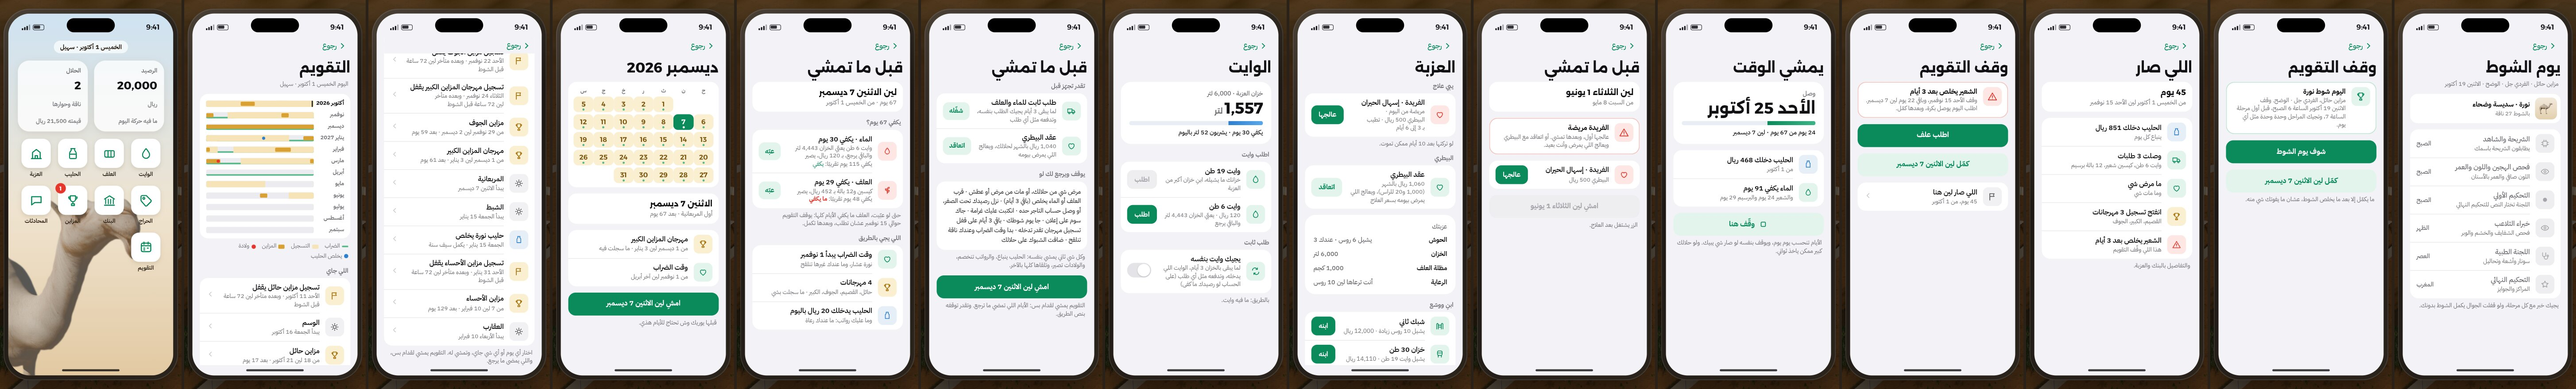
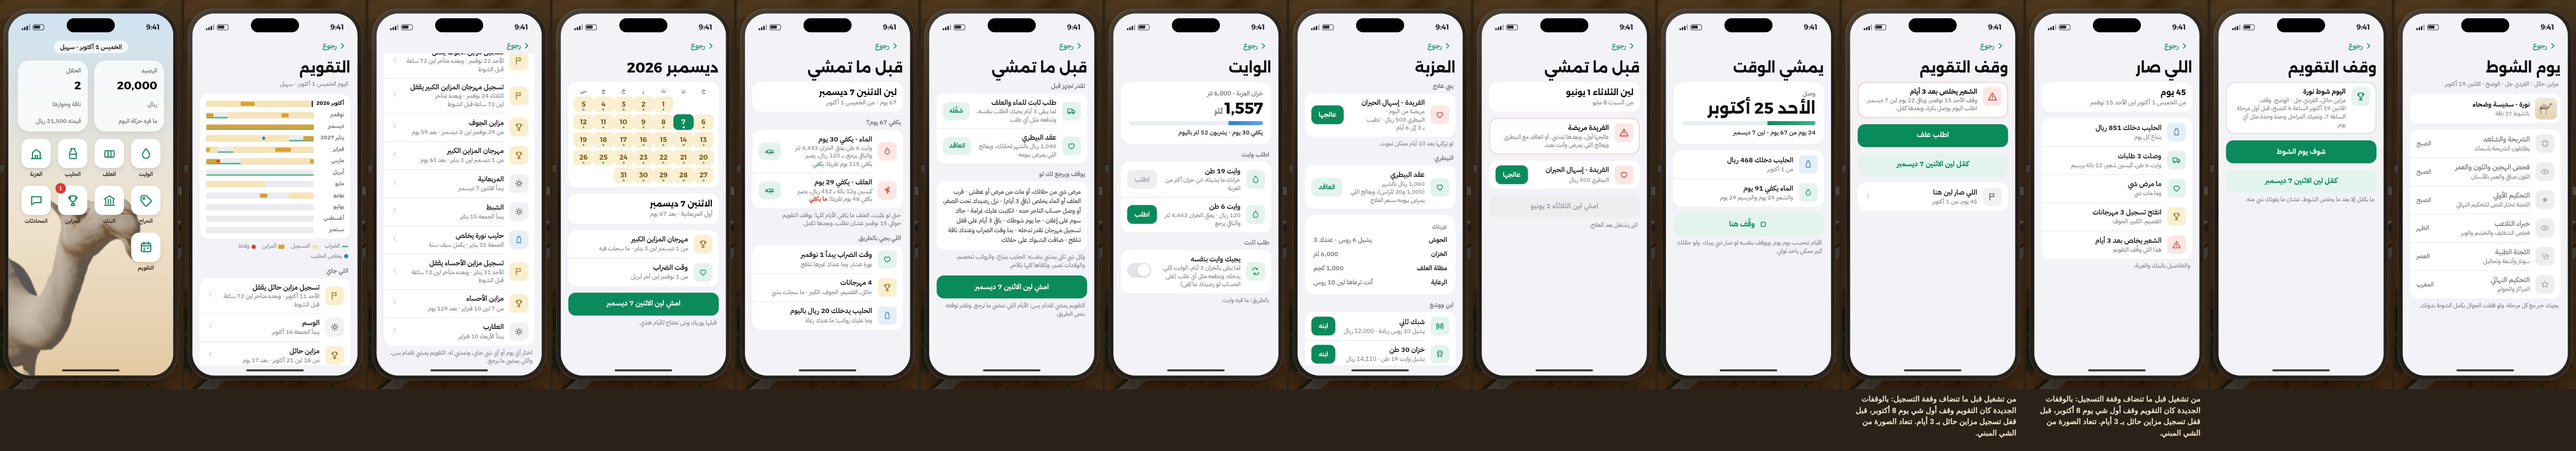
Part A's last touches: the early stop and summary captioned, two reasons corrected, a caller's daily work
- N9: views 11 and 12 come from a run made before the registration stop
  existed; under the revised stops the first stop would come on 8 October,
  three days before مزاين حائل's registration closes. Said in a caption under
  the two frames (added to the strip from the drawn frames) and in the README
  row; they are to be re-made from the built thing.
- N6: a thirst death at dawn reads a count that already holds today.
- N7: the make-good's condition is exact up to Care's rounding to 0.01 and its
  clamp to 5..98.
- N1: today's milk stands after a make-good (the dawn's litres kept).
- Section 5: a caller's daily work is a daily system keyed by state, never a
  loop callback (N3).

Claude-Session: https://claude.ai/code/session_01MLonhqocXpQK4avaG2Yu99

diff --git a/design/ui/README.md b/design/ui/README.md
@@ -14,7 +14,7 @@ These mockups were reviewed by agents and approved by the owner. Only the inform
 | `phone_haraj_vet.jpg` (drawn by `phone_haraj_vet.cjs`) | **Awaiting the owner's approval** (a design, not built). الحراج's rules its screens do not show yet, from a game on seed 4242 (1 October 2026) played forward with three things forced (the farm's stores filled so the herd lives through the wait, money granted for the purchase, the daily look's finding called directly): a camel's page with the vet's look before buying (CheckListing, SAR 500; after it «البيطري فحصها مرة · ما لقى شي», each day a fresh look, never a chance in numbers); the look that found a treatment (only the buyer knows; buy knowing, leave her, or wait); selling one's own treated camel bought unknowing and told: listed declared at his price, or to the broker declared now, at her natural price (under the cards' estimate, which shows a share of the treatment's lift), no examination, no fine (decision 15); and for one who treated her himself the engine's refusal (ownTreatment) and why. Drawn from a game on seed 4242 played forward till the market's own treated listings were on offer and the vet found one; the finding outside the ring of a camel bought unchecked was called directly (its chance is years of play), with money granted for that purchase and the stores filled for the 66 days' wait; every figure shown is the engine's own. Questions waiting for the owner: whether a buyer who learned of the treatment before buying (his vet found it) may sell her declared (the proxy: no, decision 15 is for one who did not know); the declared sale both ways (a listing and to the broker) approved provisionally by the proxy, a declared listing carrying no premium from the treatment (tested). |
 | `phone_falcon.jpg` (drawn by `phone_falcon.cjs`) | **Awaiting the owner's approval (13 Nov 2026), not built.** الصقور in two apps, «نادي الصقور» and «تصريح الصيد» (the owner's generic names), in fifteen views: the home screen with ten apps (the six, المزاين and المحادثات being built, and the two new ones); the auction of wild-caught falcons (1 Oct – 30 Nov), a falcon's page for a buyer (species, age, origin, تام or مثلوث, weight; how it hunts and races hidden) and the bid; the player's falcon (passport, outings, results); الدعو as one short care each time the game opens, its change in words; مهرجان الصقور (الملواح's classes, المزاين's classes and prizes; scrolled, the rules); the race day and its result (times to three decimals); المزاين's result (places and prizes, no scores; the sample falcon out of the prizes) and, as an example only, what a third place's card looks like; the permit before it is taken, held (top and scrolled: the season and halves, by day only, the banned places, the never-hunted, the fines) and a violation. No hunting engine yet: every figure is real by its source number or a game choice, listed in the script's header. The falcon pictures are stand-ins until task T11's birds exist. Notes in `docs/proposals/hunting_season_design.md`. |
 | `phone_rush.jpg` (drawn by `phone_rush.cjs`) | **Awaiting the owner's approval (14 Nov 2026), not built; revised after review, the proxy's answers (batches 4, 4b) provisional.** Rushing (the owner: «اي شي اسويه او ابنيه اقدر اسرعه يبني بنفس اللحظة بتكلفه اعلى») in the phone's own screens, ten views: العزبة's pen being built, its approved line kept and «استعجل» after it, and the second tap («أكّد»); at ordering, «أو ابنه الحين بـ 18,000 ريال» (where that line sits is his eye); الوايت and العلف on a day the herd went short (the engine's save, 1 November: the rushed delivery makes good today's loss) and on an ordinary day (no rush: «الطلبة العادية توصل قبل شرب حلالك بكرة»); الحراج's camel on the truck, «توصل الحين», priced by the part of the game's day left (the ownership day unchanged); the rush the money does not cover (cash only); البنك's «الاستعجال». Every price a game choice. Notes in `docs/proposals/rush_and_calendar.md`. |
-| `phone_calendar.jpg` (drawn by `phone_calendar.cjs`) | **Awaiting the owner's approval (14 Nov 2026), not built; revised after review, the proxy's answers provisional.** «التقويم», an optional ninth app (the owner: «خليني اقدر انتقل بين المواسم بنفسي يعني تقويم وهكذا موجود اختياري»), fourteen views: the home screen as built with التقويم; the year's twelve strips and what is coming; a season picked; the card before the jump (the stores against the days, filled by orders; what falls due; the standing order and the vet's contract to set; every stop; two taps; forward only); الوايت's standing order; العزبة's first vet screen («يبي علاج», the engine's quote) and the card that waits for a sick calf; the jump under way; a store's stop and the summary (played on the fast clock); the stop on his round's day at 6:00 and المزاين's own day screen with no stage told. Notes, measurements, the one mechanism for being away, in `docs/proposals/rush_and_calendar.md`. |
+| `phone_calendar.jpg` (drawn by `phone_calendar.cjs`) | **Awaiting the owner's approval (14 Nov 2026), not built; revised after review, the proxy's answers provisional.** «التقويم», an optional ninth app (the owner: «خليني اقدر انتقل بين المواسم بنفسي يعني تقويم وهكذا موجود اختياري»), fourteen views: the home screen as built with التقويم; the year's twelve strips and what is coming; a season picked; the card before the jump (the stores against the days, filled by orders; what falls due; the standing order and the vet's contract to set; every stop; two taps; forward only); الوايت's standing order; العزبة's first vet screen («يبي علاج», the engine's quote) and the card that waits for a sick calf; the jump under way; a store's stop and the summary (played on the fast clock, **in a run made before the registration stop existed: under the revised stops that jump would first stop on 8 October, three days before مزاين حائل's registration closes; these two views are to be re-made from the built thing; captioned so under the two frames in the picture**); the stop on his round's day at 6:00 and المزاين's own day screen with no stage told. Notes, measurements, the one mechanism for being away, in `docs/proposals/rush_and_calendar.md`. |
 | `../hunt/season_calendar.jpg`, `../hunt/season_money.jpg` (drawn by `../hunt/season.cjs`) | **Awaiting the owner's approval.** The hunting season against the camel year (Aug 2026 – Jul 2027; the falcon festival's two disagreeing date ranges and the camel festival each meets; a new game's first season from 1 October), and one season's costs against what it can bring (pastime or contests). |
 | `../hunt/outing_1..9_*.jpg`, `../hunt/outing_board.jpg` (drawn by `../hunt/outing.cjs`) | **Awaiting the owner's approval.** The outing as storyboard frames on real screenshots of the game page at 956 x 440: the hunting ground and the estate as far pins, the ground's card, driving out, parked (the falcon's button in the car's row), on foot with the hooded falcon on the glove and the cast-off button, the flight, the result card, the banned place's warning, the fine after in the small phone. What is drawn is listed under each frame in `outing_board.jpg`; frames 5 and 8 show task T11's render of the hooded saker on a drawn glove, the other birds are flat stand-ins; each frame has its strip under it; each frame's draws and triangles in `../hunt/outing_draws.txt`. |
 

diff --git a/docs/proposals/rush_and_calendar.md b/docs/proposals/rush_and_calendar.md
@@ -107,10 +107,15 @@ So a rush of water or feed is offered **only on a day the herd went short**, and
     `fedShare = (barley eaten + alfalfa eaten) / need`; `short` loses a feed that now covers the day.
   - **Today's condition:** `CareSystem` ran at dawn with the short day. The difference is applied once to each
     camel: `condition += conditionPull × ((plan target − 35) × (fedShare′ − fedShare) + (thirstPenalty if the day
-    stopped counting dry))`, clamped as Care clamps. The update is linear in its target, so this is what Care would
-    have made of the corrected day. How much of the day's loss it undoes (all of today's, as here) is a game choice.
-  - A camel that died of thirst at dawn stays dead. A thirst death comes from yesterday's count (`systems.dart:
-    412-418`), and the rush resets the count for tomorrow: that is its real worth.
+    stopped counting dry))`, clamped as Care clamps. Care's update is linear in its target, so this is what Care
+    would have made of the corrected day, up to Care's rounding to 0.01 (`q2`) and its clamp to 5..98: deterministic
+    either way. How much of the day's loss it undoes (all of today's, as here) is a game choice.
+  - A camel that died of thirst at dawn stays dead. At dawn `_consume` adds today's dry day to the count before
+    `HealthSystem` reads it (`systems.dart:412-418`), so that death came from a count that already held today; the
+    rush resets the count for tomorrow: that is its real worth.
+  - **Today's milk stands** (the second review, N1): `MilkSystem` billed today's milk at dawn from the short day's
+    `fedShare` and `dryDays`. The day's record keeps the dawn's litres, and الحليب reads them from there, so the view
+    never shows a fed day's litres beside the short day's money in the bank.
 - **When the herd is not short today**, nothing is offered. The row says honestly «الطلبة العادية توصل قبل شرب حلالك
   بكرة» (water) and «… قبل علفة حلالك بكرة» (feed).
 - **A played day equals a jumped day.** The rule reads only the day's record, never the minute, so a rush at 08:00 and
@@ -247,6 +252,11 @@ outing may last days), all use one mechanism. Hunting is not built; it will call
   - **extra lines a caller adds to the card and the summary**: the card before leaving takes the caller's lines
     (gear, camp supplies, distance) under its own; the summary takes its lines (days out, birds seen and caught,
     released) above its own. The calendar's card and summary views are the same views, with no extra lines.
+  - **A caller's daily work is a daily system, never a loop callback** (the second review, N3). A camp's daily work
+    (its supplies used, its trapping) is a step of the engine's own daily pipeline, keyed by the game's state (a camp
+    under way), so a played day and a jumped day run the same code. The standing order and the vet's contract are
+    built the same way (steps of `UpkeepSystem` and `HealthSystem`). The away call only advances days and reads
+    conditions; it changes nothing itself.
 - **The loop:** the catch-up's own loop over `advanceDays(1)`, yielding every 6 ms. After each day:
   - the day's events go to the summary's counters;
   - the stop conditions are read from the state (and the day's events where the state cannot tell);
@@ -370,9 +380,10 @@ day.
 - Played on the fast clock with those orders, the engine's first store stop came on Sunday 15 November (barley,
   3 days left).
 - The milk had brought SAR 851, three orders had come, three festivals had opened registration, nothing fell ill.
-- (That run predates the registration stop. With it, the jump would first have stopped on 8 October, three days
-  before مزاين حائل's registration closed, since نورة could enter. The drawn stop is kept because it shows a store
-  stop; the registration stop is drawn from the round's save.)
+- **That run predates the registration stop** (the second review, N9). Under the revised stops the jump would first
+  stop on 8 October, three days before مزاين حائل's registration closed, since نورة could enter. The stopped and summary
+  pictures (views 11 and 12) are captioned so in `phone_calendar.jpg`'s README row, and are to be re-made from the
+  built thing. The registration stop itself is listed in the card's stops (view 6).
 
 ### At the end (view 12)
 
